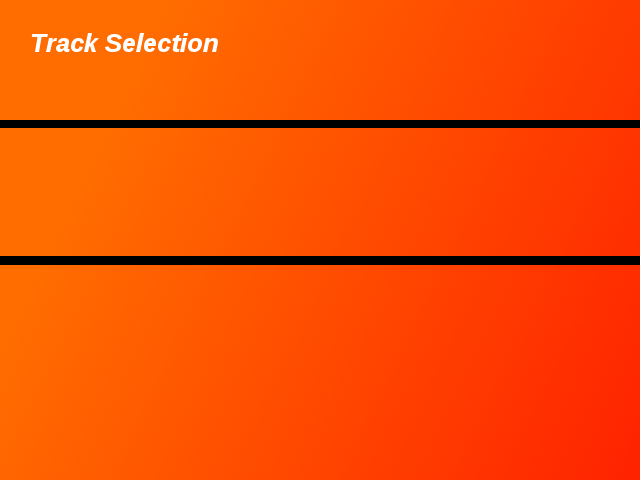
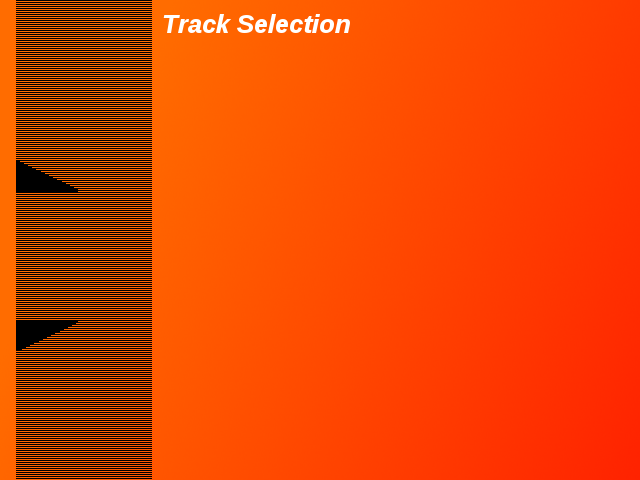
Improved track selector

Changed region(s): [[0.0, 0.0, 1.0, 1.0]]

diff --git a/platakart/trackselect.py b/platakart/trackselect.py
@@ -1,50 +1,116 @@
 # -*- coding: utf-8; -*-
 
-import logging
 from collections import namedtuple
+from random import sample
+import logging
+import string
 
 from pubsub import pub
 import pygame.display
 import pygame.font
 import pygame.sprite
+from pygame import K_LEFT, K_RIGHT, K_UP, K_DOWN
 
 logger = logging.getLogger("platakart.trackselect")
 
-from platakart.ui import Scene
+from platakart.ui import BLACK
+from platakart.ui import BLUE
+from platakart.ui import WHITE
 from platakart.ui import Button
+from platakart.ui import Scene
 
-WHITE = (255, 255, 255)
 
-
-TrackInfo = namedtuple("TrackInfo", "name, description, thumbnail")
+TrackInfo = namedtuple("TrackInfo", "key, name, description, thumbnail")
 
 
 class TrackButton(pygame.sprite.DirtySprite):
 
-    def __init__(self, thumb_surf, pos, track_info):
+    def __init__(self, font, thumb_surf, track_info):
         super(TrackButton, self).__init__()
-        self.image = thumb_surf
-        self.thumb_surf = thumb_surf
+        self.thumb_surf = thumb_surf.copy()
+        self.image = self.thumb_surf
+        thumb_rect = self.thumb_surf.get_rect().inflate(-1, -1)
+        pygame.draw.rect(self.thumb_surf, BLACK, thumb_rect, 2)
+        self.hover_surf = thumb_surf.copy()
+        highlight_rect = self.hover_surf.get_rect().inflate(-24, -24)
+        pygame.draw.rect(
+            self.hover_surf, BLUE, highlight_rect, 8)
+        self.track_info = track_info
         self.rect = self.image.get_rect()
-        self.rect.topleft = pos
+        salt = "".join(sample(string.lowercase, 2))
+        label_surf = font.render(track_info.name + salt, True, WHITE)
+        label_rect = label_surf.get_rect()
+        label_rect.center = self.rect.center
+        self.thumb_surf.blit(label_surf, label_rect)
+        self.hover_surf.blit(label_surf, label_rect)
+        pub.subscribe(self.on_mouse_move, "input.mouse-move")
 
     def on_mouse_move(self, pos, rel, buttons):
-        if self.rect.containspoint(pos):
-            logger.debug("Moused over %s" % track_info["name"])
+        if self.rect.collidepoint(pos):
+            self.image = self.hover_surf
+            self.dirty = 1
+        elif self.image is self.hover_surf:
+            self.image = self.thumb_surf
+
+    def on_mouse_up(self, pos, button):
+        if self.rect.collidepoint(pos):
+            pub.sendMessage(
+                "track-select.track-thumb.clicked",
+                name=self.track_info.name)
 
 
 class TrackButtonBar(pygame.sprite.RenderUpdates):
 
-    def __init__(self):
+    def __init__(self, rect):
         super(TrackButtonBar, self).__init__()
         self.selected_index = 0
         self.tiles_to_show = 0
+        self.rect = rect
+        self.dirty = True
+        pub.subscribe(self.on_key_up, "input.key-up")
 
     def update(self):
         """Reposition all of the images based on the selected_index"""
         super(TrackButtonBar, self).update()
-        
-        
+
+    def on_key_up(self, key, mod):
+        if key == K_LEFT or key == K_UP:
+            self.selected_index -= 1
+        elif key == K_RIGHT or key == K_DOWN:
+            self.selected_index += 1
+
+        buttons = [s for s in self.sprites()]
+        for button in buttons:
+            button.visible = 0
+            button.dirty = 0
+            button.rect.topleft = -128, -128
+
+        self.selected_index = max(
+            0, min(len(buttons) - 1, self.selected_index))
+
+        idx = self.selected_index
+        center_button = buttons[idx]
+        center_button.rect.center = self.rect.center
+        center_button.rect.left += 4
+
+        if idx - 1 != -1:
+            top_button = buttons[idx-1]
+            top_button.rect.center = self.rect.center
+            top_button.rect.left -= 4
+            top_button.rect.top -= 164
+            top_button.visible = 1
+            top_button.dirty = 1
+
+        if idx < len(buttons) - 1:
+            bottom_button = buttons[idx+1]
+            bottom_button.rect.center = self.rect.center
+            bottom_button.rect.left -= 4
+            bottom_button.rect.bottom += 164
+            bottom_button.visible = 1
+            bottom_button.dirty = 1
+
+        self.dirty = True
+
 
 class TrackSelectScene(Scene):
 
@@ -62,25 +128,29 @@ class TrackSelectScene(Scene):
         logger.debug("Setting up kart select scene")
         logger.debug("kart_id: %s" % options["kart_id"])
         self.font = pygame.font.SysFont("Verdana", 32)
-        self.track_buttons = pygame.sprite.RenderUpdates()
-
-        for tilemap in self.resources.tilemaps.values():
-            info = TrackInfo(tilemap.name, tilemap.description,
+        self.track_buttons = TrackButtonBar(pygame.Rect(19, 16, 128, 480))
+        font = pygame.font.SysFont("Verdana", 32)
+        for key, tilemap in self.resources.tilemaps.items():
+            info = TrackInfo(key, tilemap.name, tilemap.description,
                              tilemap.thumbnail)
             img = self.resources.images[info.thumbnail]
-            self.track_buttons.add(TrackButton(img, (0, 0), info))
+            self.track_buttons.add(
+                TrackButton(font, img, info))
 
     def teardown(self):
         logger.debug("Tearing down kart select scene")
         self.buttons = None
 
     def update(self, screen, delta):
-        if not self.rendered:
+        if self.track_buttons.dirty:
             screen_rect = screen.get_rect()
             screen.blit(self.resources.images["track-select"], screen_rect)
-            screen.blit(self.resources.images["testtrack-thumb"], (10, 128))
             pygame.display.flip()
             self.rendered = True
+            self.track_buttons.update()
+            self.track_buttons.draw(screen)
+            pygame.display.update(self.track_buttons.rect)
+            self.track_buttons.dirty = False
 
     def on_button_clicked(self, id):
         logger.debug("Kart {%s} selected" % id)

diff --git a/platakart/core.py b/platakart/core.py
@@ -166,6 +166,8 @@ class Game(object):
         MOUSEMOTION = pygame.MOUSEMOTION
         MOUSEBUTTONDOWN = pygame.MOUSEBUTTONDOWN
         MOUSEBUTTONUP = pygame.MOUSEBUTTONUP
+        KEYDOWN = pygame.KEYDOWN
+        KEYUP = pygame.KEYUP
         pygame.time.set_timer(SHOWFPSEVENT, 3000)
         self.current_scene.setup()
         while not self.shutting_down:
@@ -183,10 +185,21 @@ class Game(object):
                 elif t == MOUSEBUTTONDOWN:
                     pub.sendMessage("input.mouse-down", pos=event.pos,
                                     button=event.button)
-
                 elif t == MOUSEBUTTONUP:
                     pub.sendMessage("input.mouse-up", pos=event.pos,
                                     button=event.button)
+                elif t == KEYUP:
+                    pub.sendMessage(
+                        "input.key-up",
+                        key=event.key, 
+                        mod=event.mod)
+                elif t == KEYDOWN:
+                    pub.sendMessage(
+                        "input.key-down",
+                        unicode=event.unicode,
+                        key=event.key,
+                        mod=event.mod)
+
             delta = self.clock.tick(target_fps)
             self.current_scene.update(screen, delta)
 

diff --git a/platakart/title.py b/platakart/title.py
@@ -104,8 +104,6 @@ class TitleScene(Scene):
             self.render_percent = False
 
         if self.render_button:
-            import pdb
-            pdb.set_trace()
             screen_rect = screen.get_rect()
 
             if self.render_button == "hover":

diff --git a/platakart/ui.py b/platakart/ui.py
@@ -5,6 +5,7 @@ import pygame.sprite
 
 WHITE = (255, 255, 255)
 BLACK = (0, 0, 0)
+BLUE = (0, 0, 255)
 
 # This is probably not the best place for Scene, but putting it here
 # helps to avoid forward declarations in core.py.
